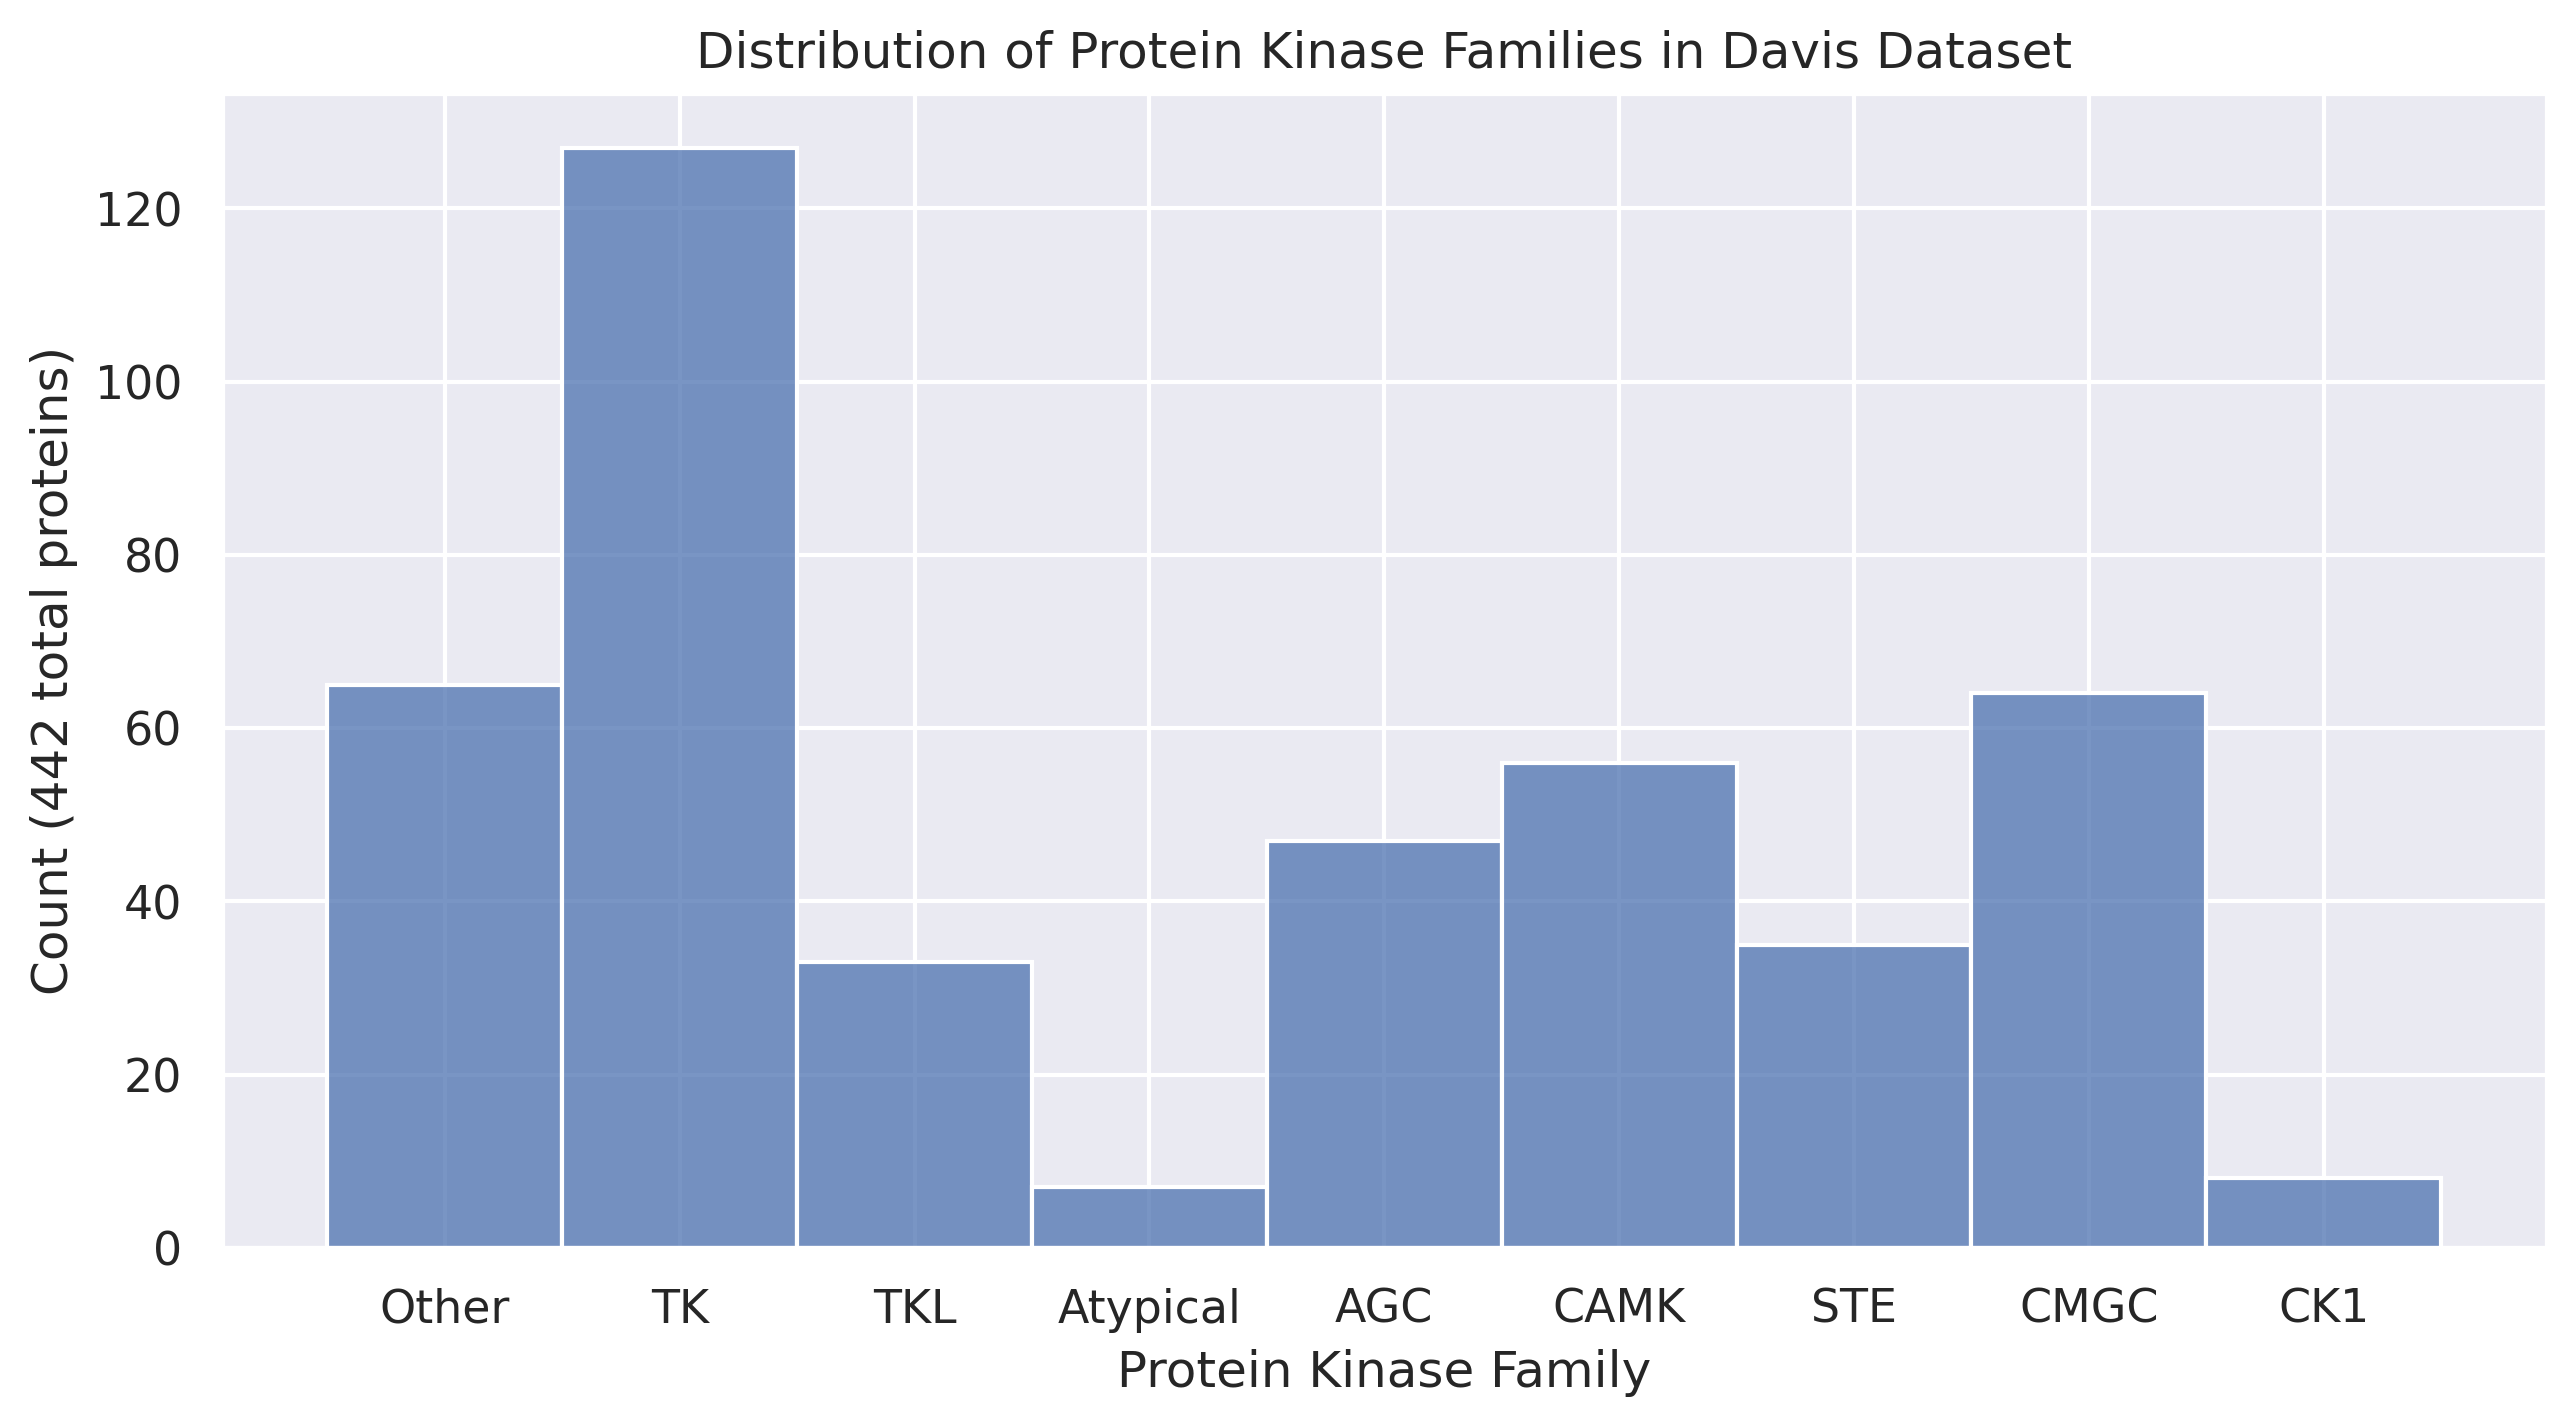
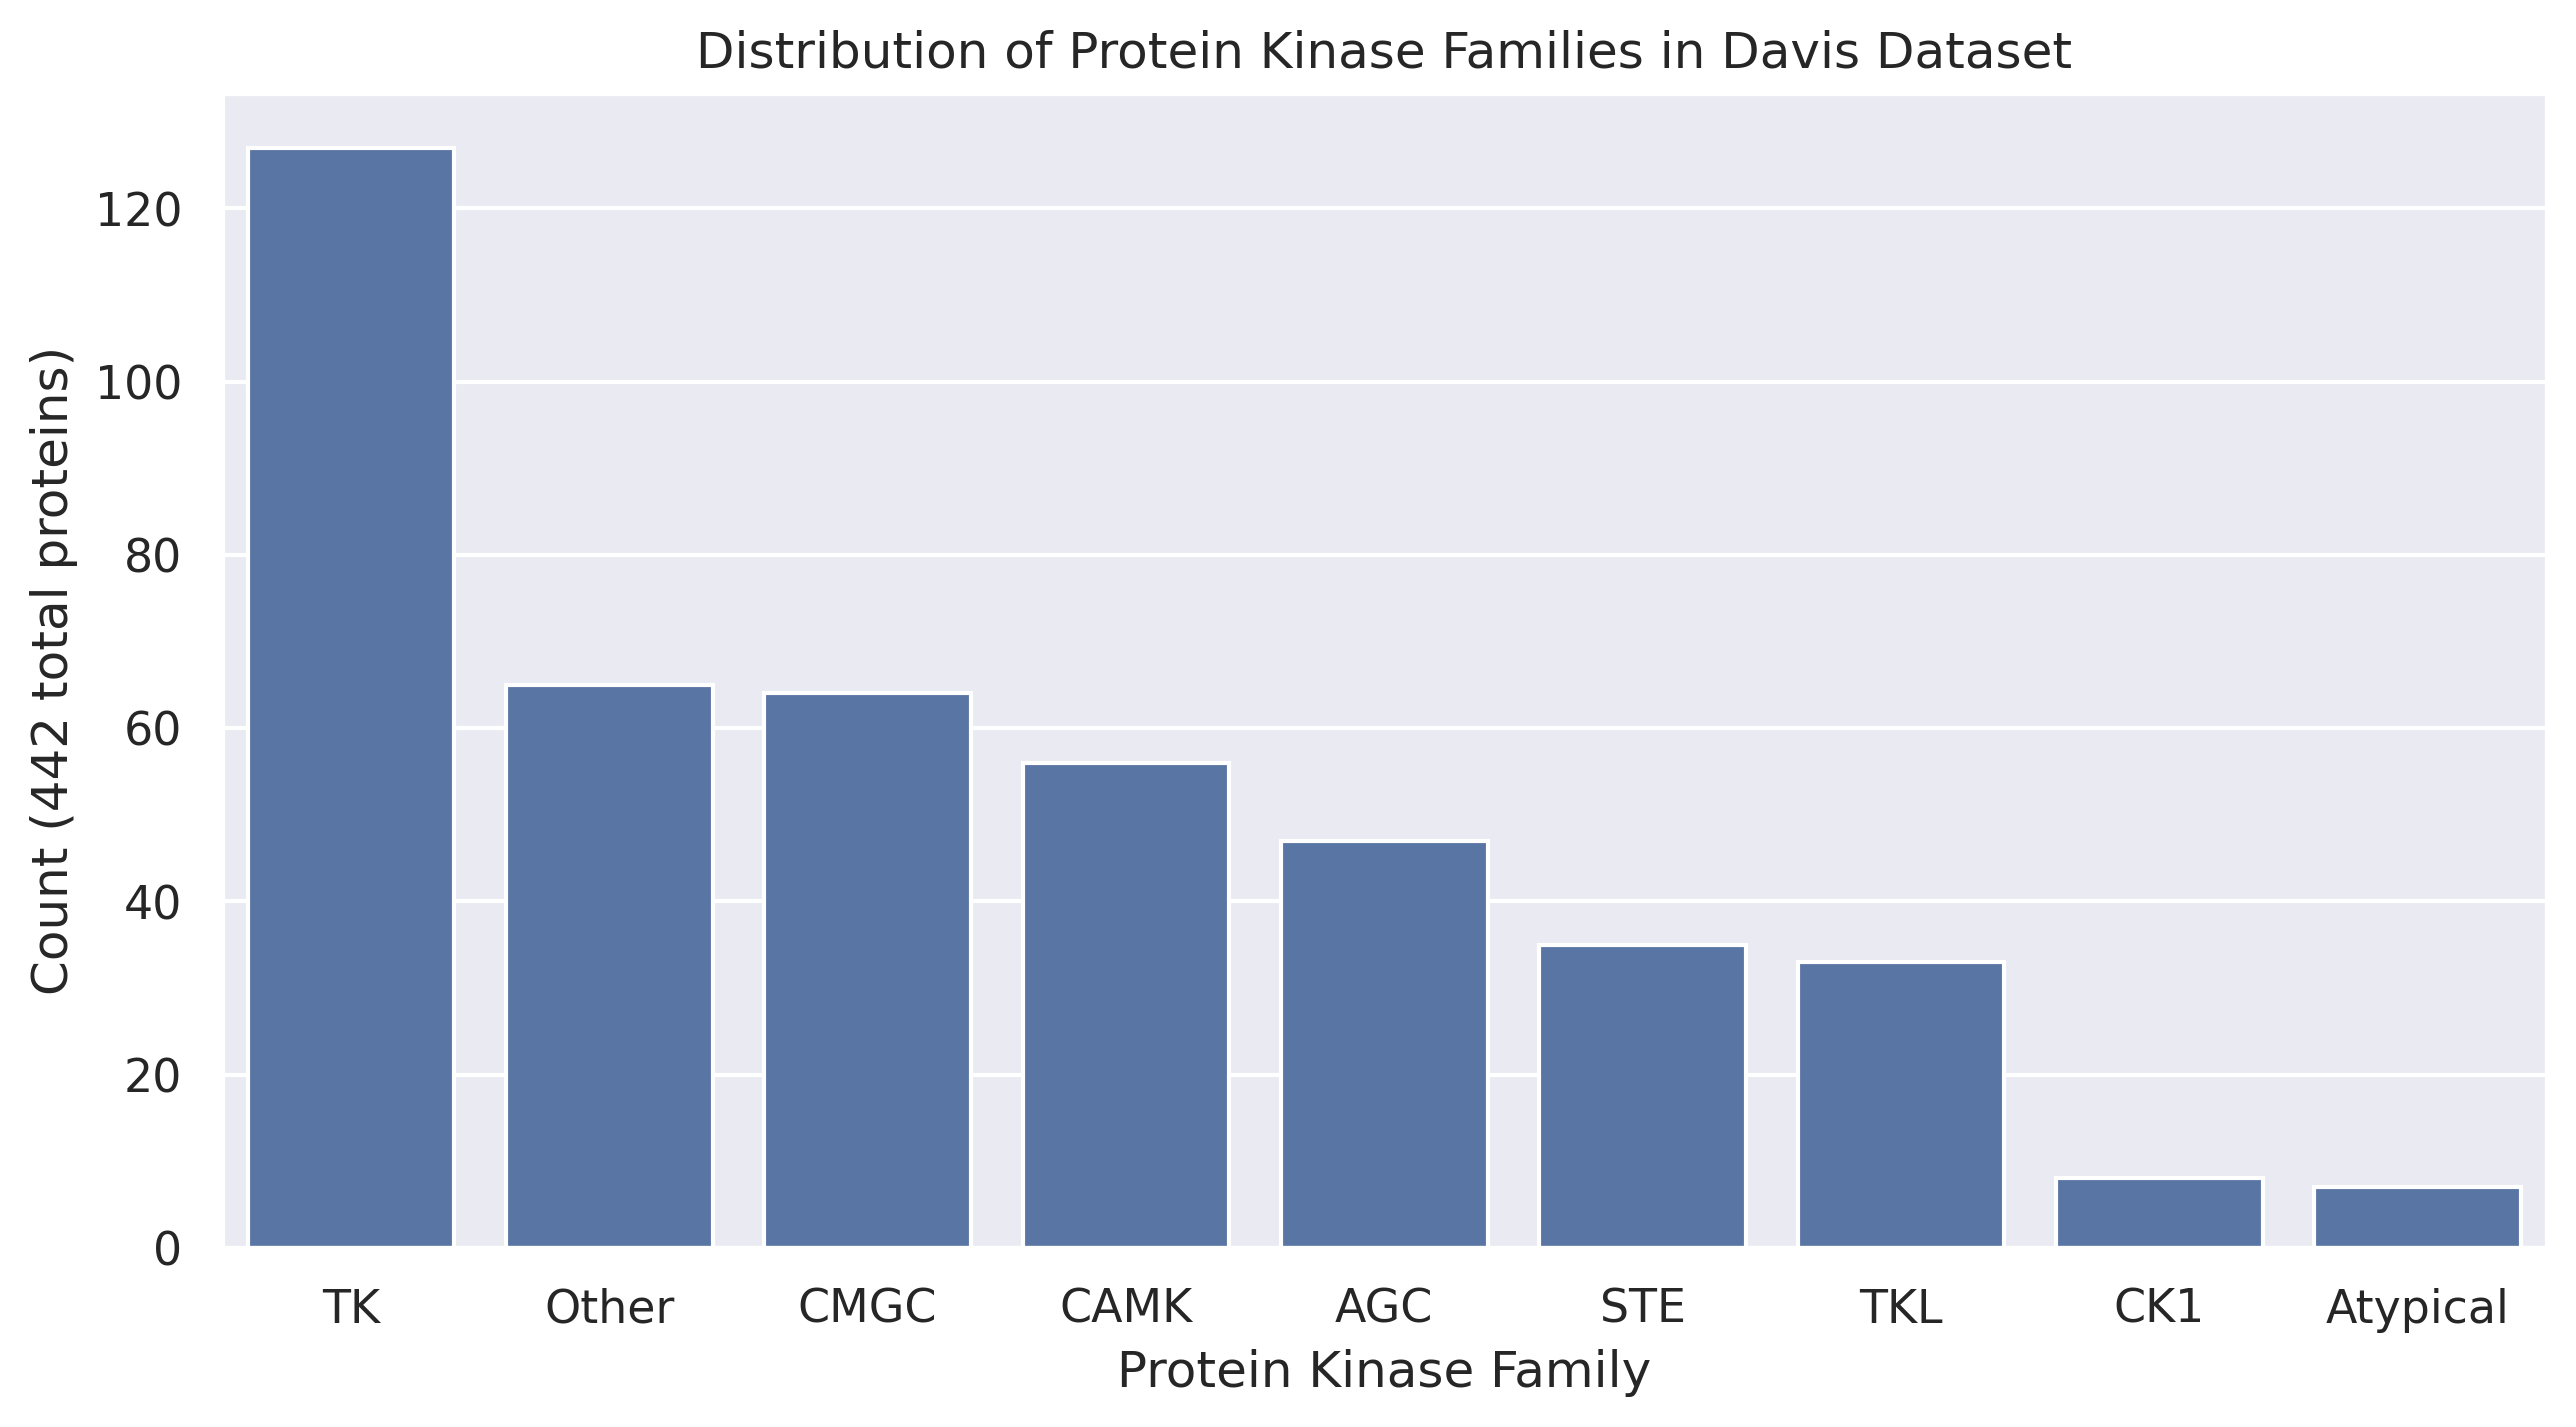
fix: sorted histplot for davis kinase families #57

diff --git a/playground.py b/playground.py
@@ -164,7 +164,7 @@ missing_prots = {
     'TSSK1B':   'TSSK1',    # https://www.ncbi.nlm.nih.gov/gene/83942
     'VEGFR2':   'KDR',      # https://www.ncbi.nlm.nih.gov/gene/3791
     'WEE2':     'Wee1B',    # https://www.ncbi.nlm.nih.gov/gene/494551
-    'YSK4':     'MAP3K1',  # https://www.ncbi.nlm.nih.gov/gene/80122 ** FAILED TO FIND ALIAS
+    'YSK4':     'MAP3K1',   # https://www.ncbi.nlm.nih.gov/gene/80122 ** FAILED TO FIND ALIAS
 }
 
 # %% merging missing proteins with main df
@@ -195,10 +195,10 @@ prots = check_davis_names(prot_dict, df)
 
 # %% plot histogram of main families and their counts
 main_families = [v[1] for v in prots.values()]
-main_families = pd.Series(main_families)
+main_families = pd.Series(main_families).value_counts().sort_values(ascending=False)
 sns.set_theme(style='darkgrid')
 plt.figure(figsize=(10, 5))
-sns.histplot(main_families)
+sns.barplot(x=main_families.index, y=main_families.values, color='b')
 plt.xlabel('Protein Kinase Family')
 plt.title('Distribution of Protein Kinase Families in Davis Dataset')
 plt.ylabel('Count (442 total proteins)')
